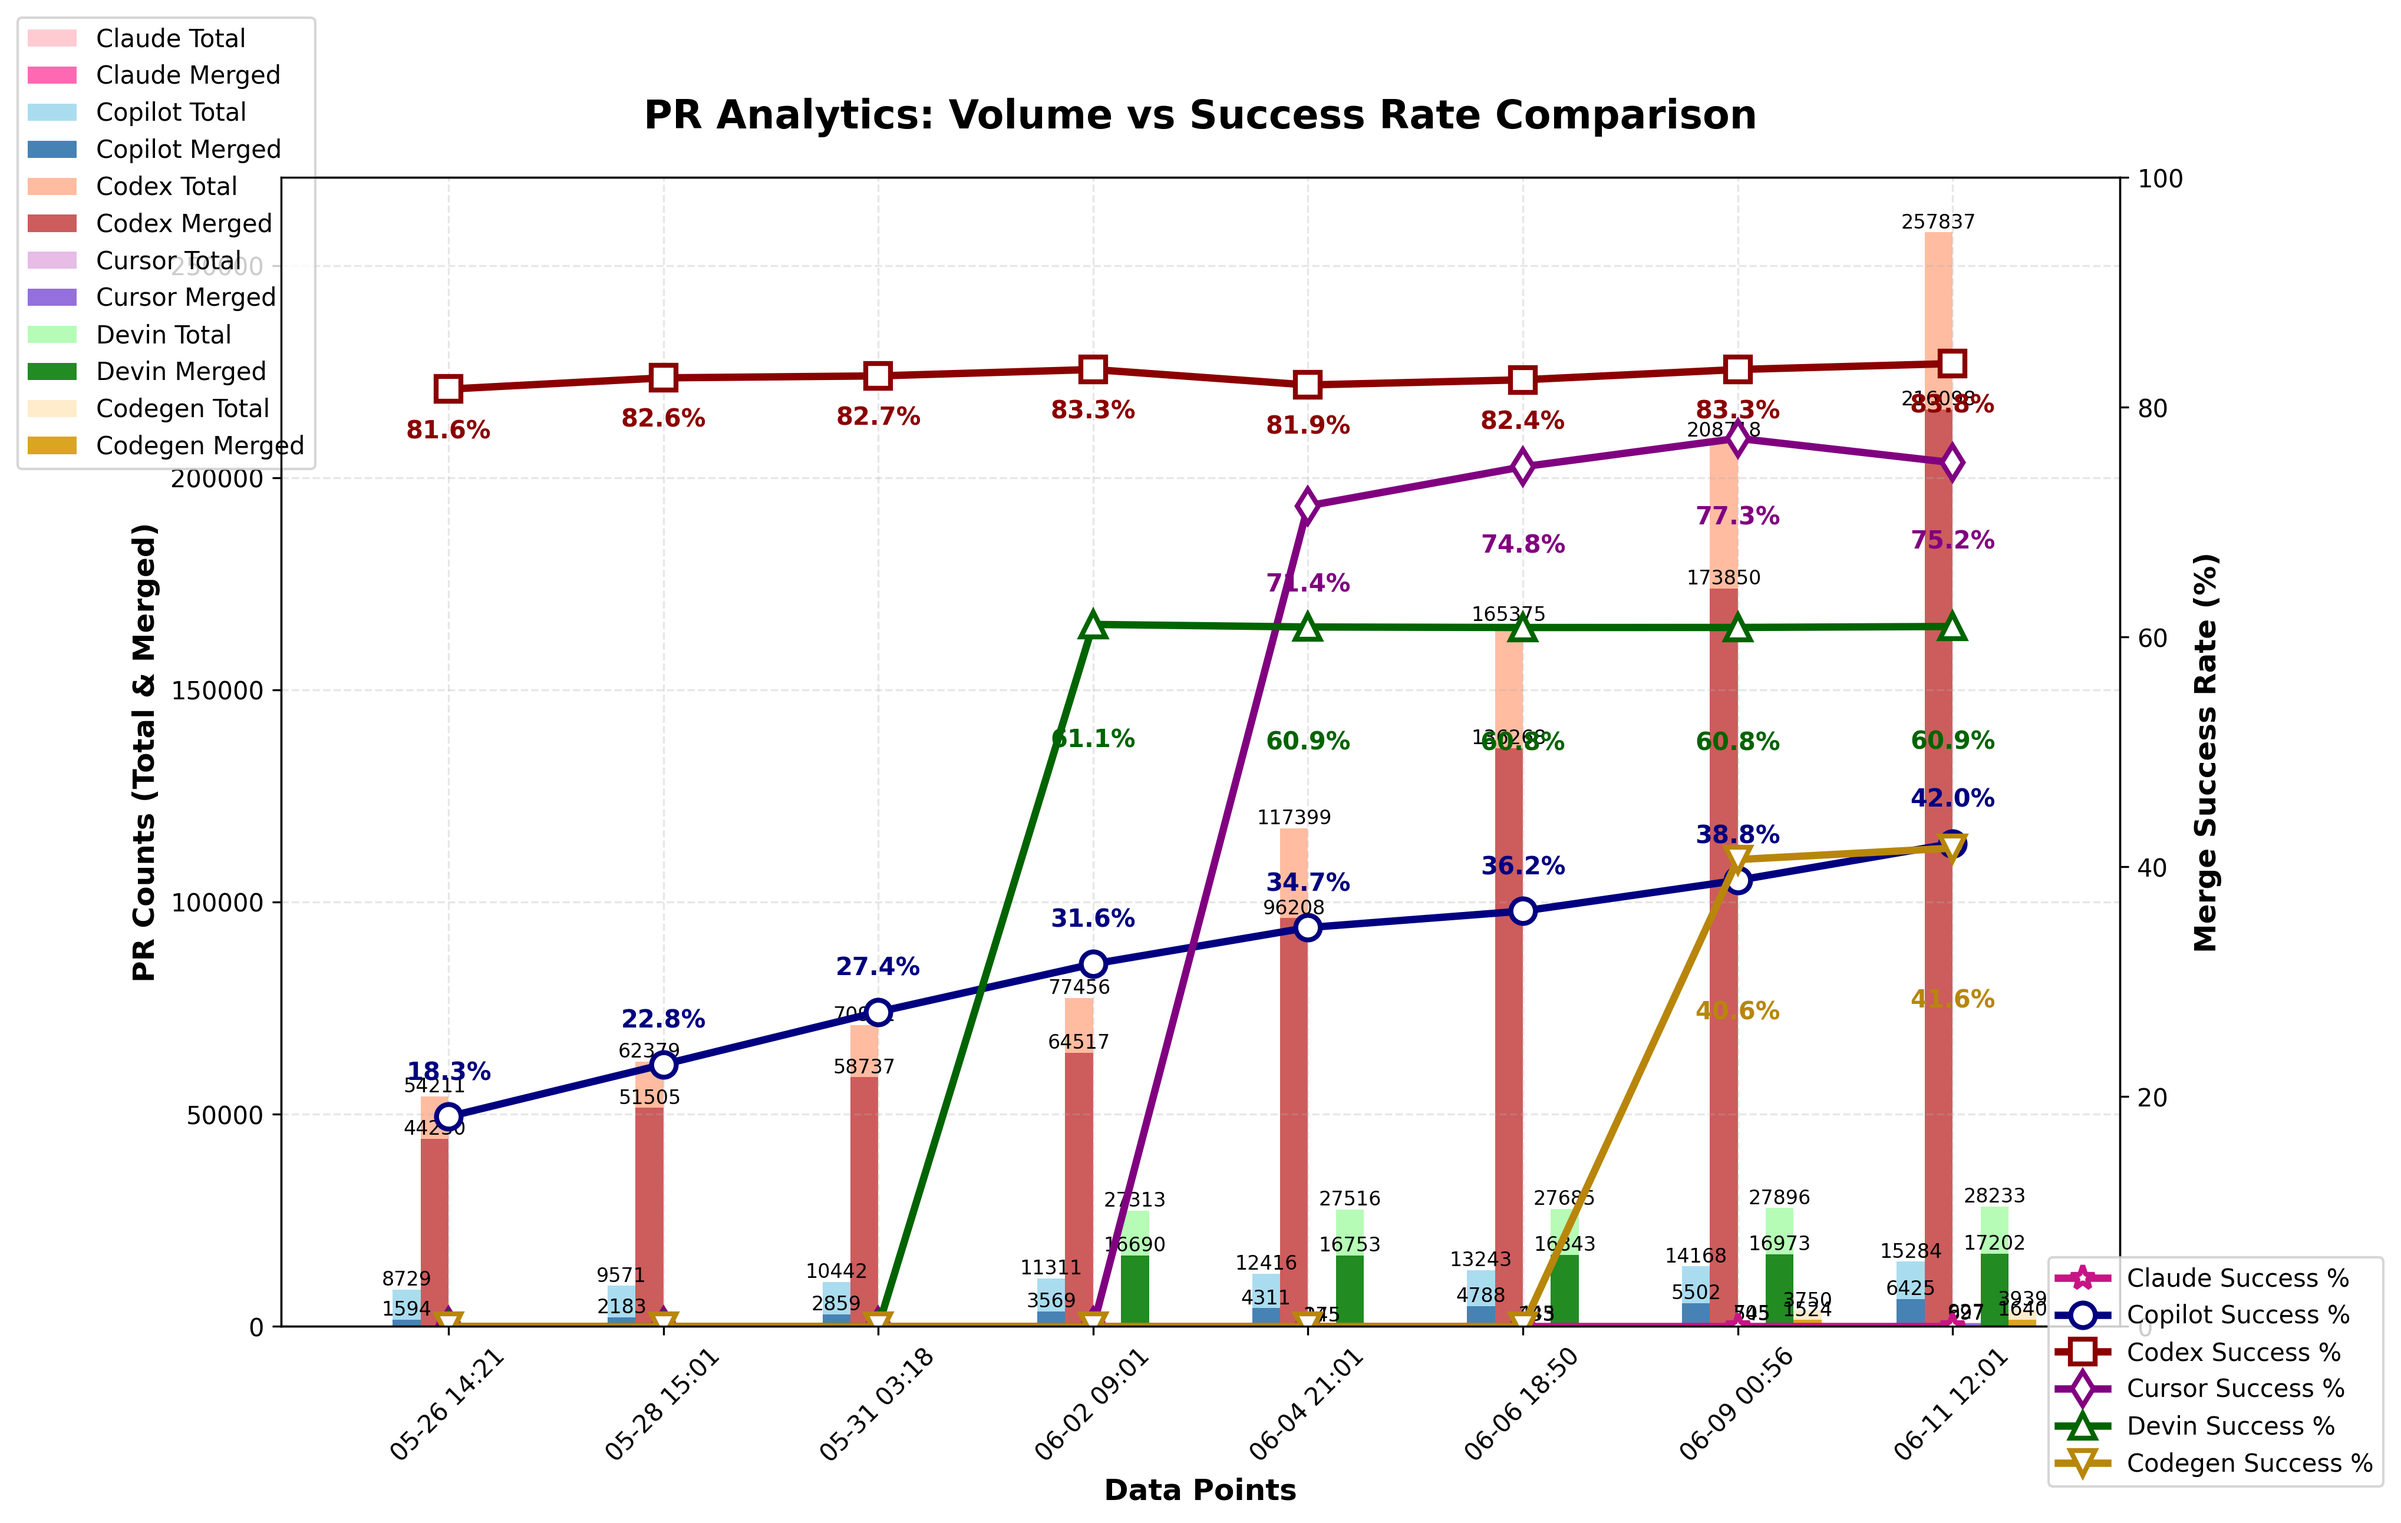
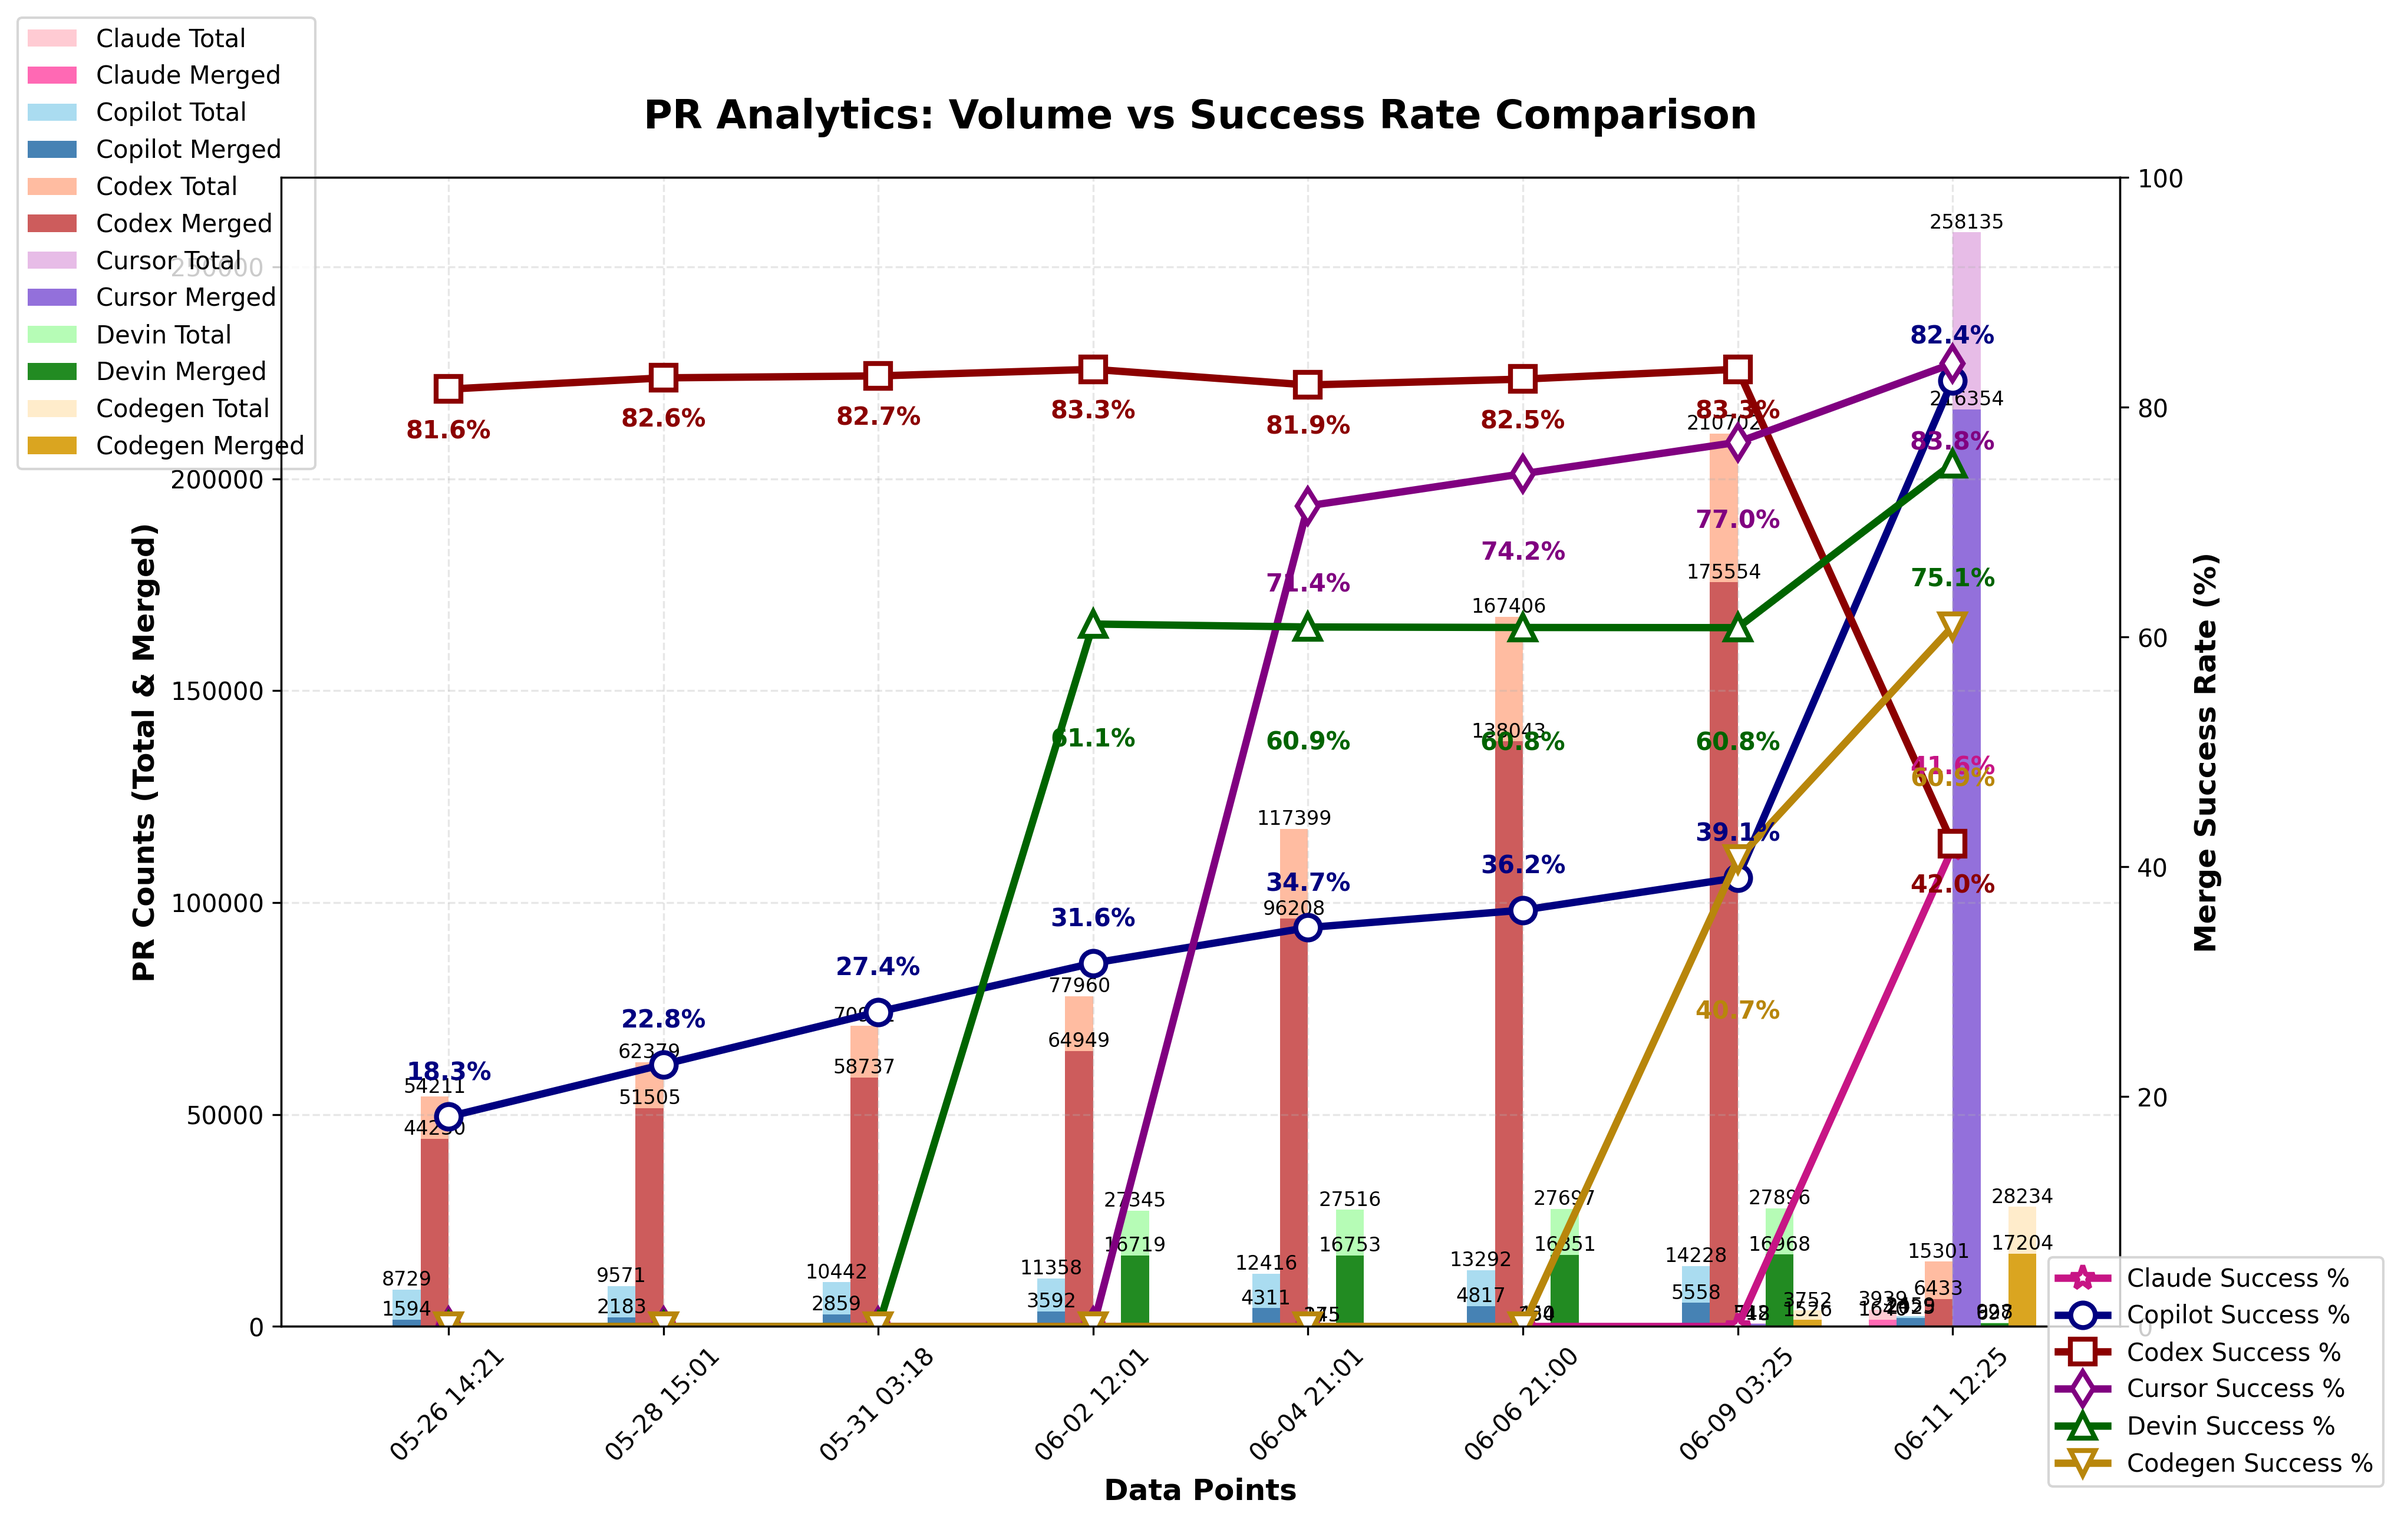
chore: update project data and refresh chart visuals

diff --git a/docs/index.html b/docs/index.html
@@ -367,7 +367,7 @@
 
       <footer>
         <p>
-          Last updated: <span id="last-updated">June 11, 2025 06:18 UTC</span>
+          Last updated: <span id="last-updated">June 11, 2025 06:25 UTC</span>
         </p>
         <p>
           <a href="https://github.com/aavetis/ai-pr-watcher">View on GitHub</a>

diff --git a/README.md b/README.md
@@ -27,9 +27,9 @@ Explore the GitHub search queries used:
 
 | Project | Total PRs | Merged PRs | Merge Rate |
 | ------- | --------- | ---------- | ---------- |
-| Claude  | nan | nan | 0.00% |
-| Copilot | 15,284 | 6,425 | 42.04% |
-| Codex   | 257,837 | 216,098 | 83.81% |
-| Cursor  | 927 | 697 | 75.19% |
-| Devin   | 28,233 | 17,202 | 60.93% |
-| Codegen | 3,939 | 1,640 | 41.63% |
+| Claude  | 3,939.0 | 1,640.0 | 41.63% |
+| Copilot | 2,459 | 2,025 | 82.35% |
+| Codex   | 15,301 | 6,433 | 42.04% |
+| Cursor  | 258,135 | 216,354 | 83.81% |
+| Devin   | 928 | 697 | 75.11% |
+| Codegen | 28,234 | 17,204 | 60.93% |
